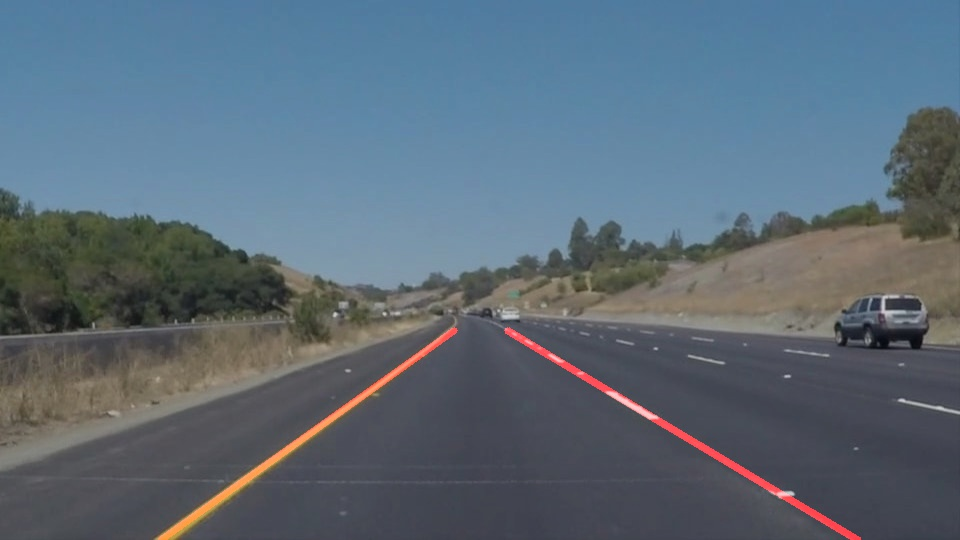
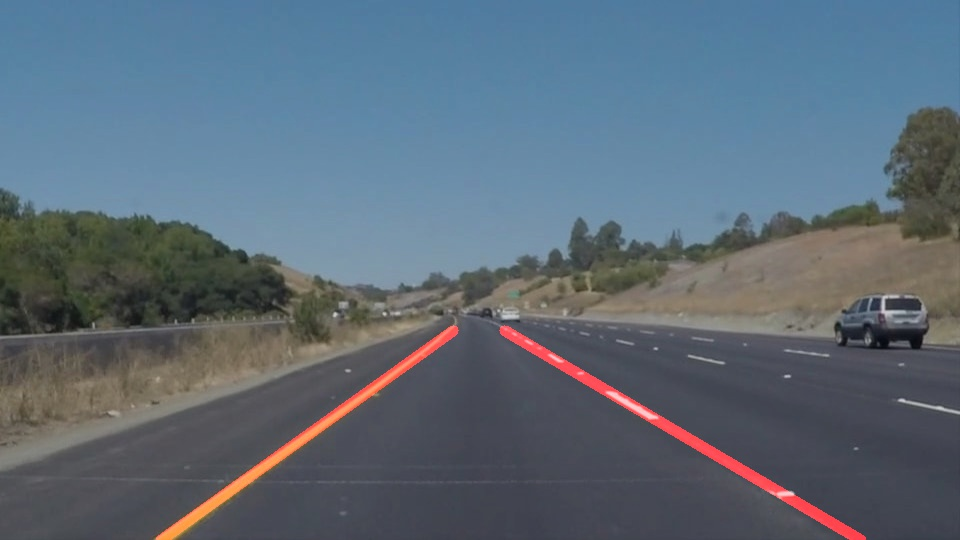
add writeup

diff --git a/writeup.md b/writeup.md
@@ -1,0 +1,66 @@
+# **Finding Lane Lines on the Road** 
+
+## Writeup Template
+
+### You can use this file as a template for your writeup if you want to submit it as a markdown file. But feel free to use some other method and submit a pdf if you prefer.
+
+---
+
+**Finding Lane Lines on the Road**
+
+The goals / steps of this project are the following:
+* Make a pipeline that finds lane lines on the road
+* Reflect on your work in a written report
+
+
+[//]: # (Image References)
+
+[image1]: ./examples/grayscale.jpg "Grayscale"
+
+---
+
+### Reflection
+
+### 1. Describe your pipeline. As part of the description, explain how you modified the draw_lines() function.
+
+My pipeline consisted of 8 steps:
+
+1) I filtered the image color to just see yello and white.
+2) I converted the images to grayscale.
+3) I ran Gaussian smoothing on the image with size 5x5 matrix. this step can be skiped beacuse its included in the next step.
+4) I used canny to get the edges in the image.
+5) I masked an area of interest in the image to focus on the road.
+6) I used hough transform to just pick a certain edges(lines) with specific properties to be carried forward into the analysis
+7) I draw the lines into the an empty image. lines became two lines with the modification mentioned below.
+8) I used a weight function to merge the line image into the orginal image to highlight the Road lanes.
+
+In order to draw a single line on the left and right lanes, I modified the draw_lines() function by 
+I add 3 steps before drawing the lines:
+
+1) I filtered any line with extreme slop so to avoid noises and unrealistic lines.
+2) I divided the lines into left and right groups.
+3) I calculated the best fit line to the points for the left group lines and right group lines. I used linear regression to calculate the 
+    best fit.
+
+If you'd like to include images to show how the pipeline works, here is how to include an image: 
+
+![alt text][image1]
+
+
+### 2. Identify potential shortcomings with your current pipeline
+
+There are several shortcoming that would results in failure of dediction of the lines or insufficient results.
+
+1) You need to tune lots of parameters to reach the best performance.
+2) parameter are static which can't adapt to changes in the enviroment.
+3) I can't identify curved Lane lines
+4) I can't see other lanes existing in the same road which cause limited decision which can be take upon this given data.
+5) If there are a car infont of me, i will not predict the lane lines perfectly
+
+
+### 3. Suggest possible improvements to your pipeline
+
+There are several imporvemnt that can be add:
+
+1) we can avoid using masked areas amd make our algorithm more general to analysis the whole image and analysis all the shapes in it and determine lane lines.
+2) we can find best fit of the lines using a spline or a curve instead of straight line.
